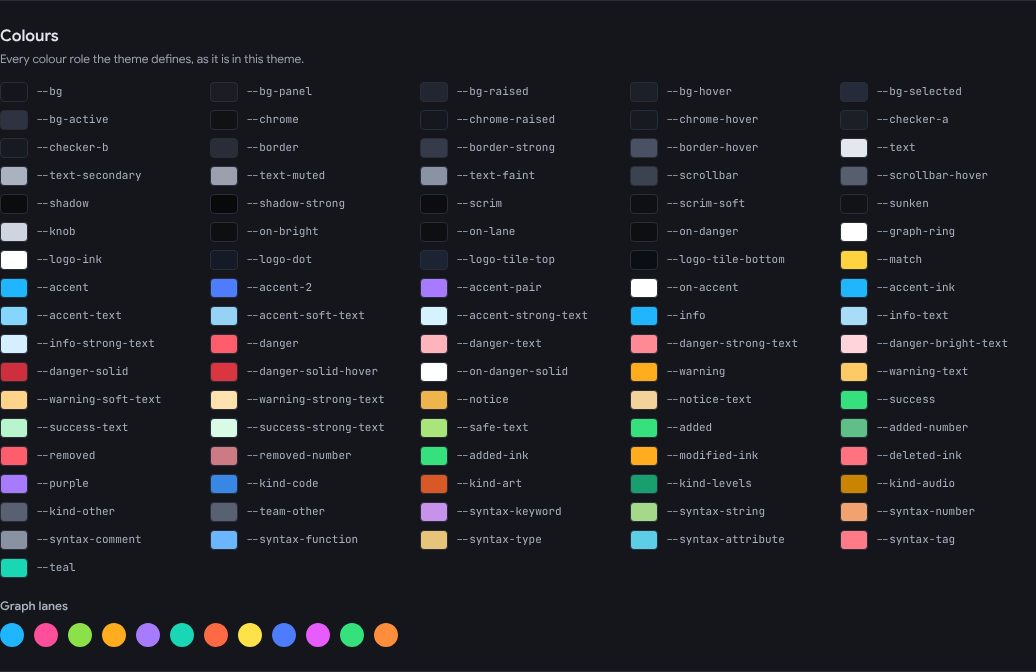
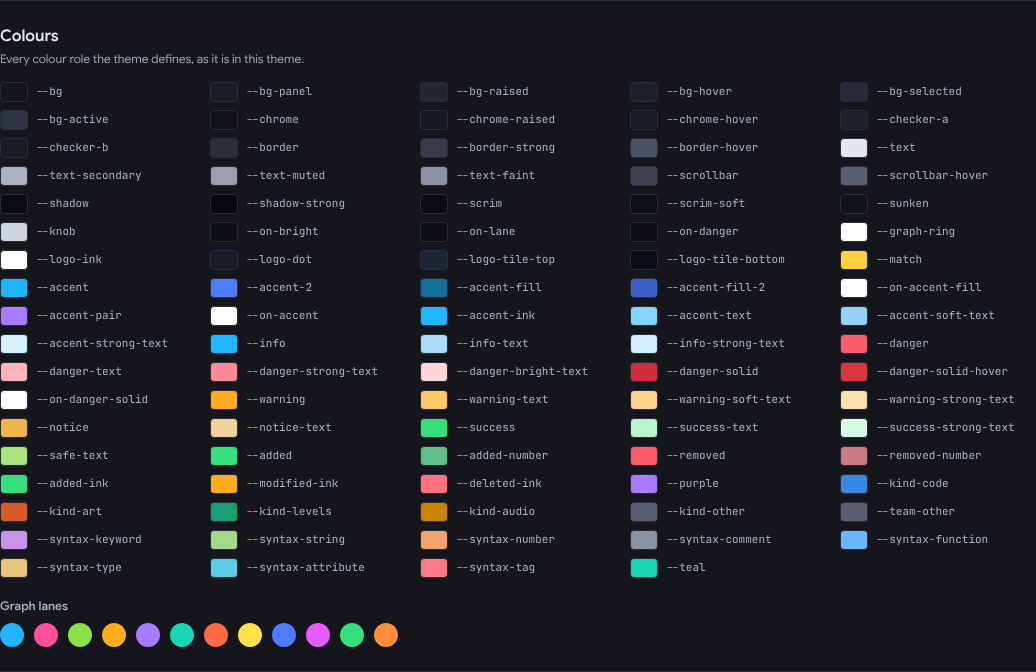
Fill blue buttons with a deeper accent, so their white text reads
White on the bright accent gradient of a primary button read at 2.3
to 1 at its light end and 3.7 at the other, under the 4.5 WCAG asks
of text this size. The toolbar's count badges had the same white on
the accent.

They're now filled with --accent-fill and --accent-fill-2: the accent
and its gradient's end, deepened until white reads at 5.2 to 1, which
leaves 4.5 when a button brightens by 8% under the pointer. The app
works them out from whichever accent is picked, a built-in one or
your own; theme.css has the default's. The accent itself is unchanged
everywhere else.

Tests check white on the fills for every built-in accent and a few of
one's own (yellow, green, white, dark blue, grey), in both themes,
pointed at or not, and on theme.css's defaults.

diff --git a/src/lib/appearance.test.ts b/src/lib/appearance.test.ts
@@ -1,5 +1,5 @@
 import { describe, expect, it } from "vitest";
-import { accentRoles, ACCENTS, contrast, DEFAULT_APPEARANCE, effectiveTheme, LANE_PALETTES, lanePalette, normalizeAppearance, parseHex, textOn } from "./appearance";
+import { accentRoles, ACCENTS, contrast, DEFAULT_APPEARANCE, FILL_CONTRAST, effectiveTheme, LANE_PALETTES, lanePalette, normalizeAppearance, parseHex, textOn } from "./appearance";
 
 const rgb = (hex: string) => parseHex(hex)!;
 
@@ -31,6 +31,24 @@ describe("appearance", () => {
     expect(roles["--accent-pair"]).toBe("#a77bff");
     expect(roles["--accent-ink"]).toBe("#1fb5ff");
     expect(roles["--on-accent"]).toBe("#ffffff");
+  });
+
+  it("fills buttons with the accent, deepened until white reads on it, pointed at or not", () => {
+    // The built-in accents, and colours of one's own: light, dark and greyish.
+    for (const accent of [...ACCENTS.map((a) => a.color), "#ffe24a", "#00ff00", "#ffffff", "#123456", "#9aa1ad"]) {
+      for (const theme of ["dark", "light"] as const) {
+        const roles = accentRoles(accent, theme);
+        for (const fill of [roles["--accent-fill"], roles["--accent-fill-2"]]) {
+          expect(contrast(rgb(fill), [255, 255, 255]), `${accent} ${fill}`).toBeGreaterThanOrEqual(FILL_CONTRAST);
+          // Brightened by 8% (filter: brightness(1.08)) when the pointer is on it.
+          const brighter = rgb(fill).map((value) => Math.min(255, value * 1.08)) as [number, number, number];
+          expect(contrast(brighter, [255, 255, 255]), `${accent} ${fill} pointed at`).toBeGreaterThanOrEqual(4.5);
+        }
+      }
+    }
+    // The default's, which theme.css has before the accent is applied.
+    expect(accentRoles("#1fb5ff", "dark")["--accent-fill"]).toBe("#136e9b");
+    expect(accentRoles("#1fb5ff", "dark")["--accent-fill-2"]).toBe("#3c61c7");
   });
 
   it("pairs every accent with a different colour", () => {

diff --git a/src/lib/appearance.ts b/src/lib/appearance.ts
@@ -159,6 +159,8 @@ function readable(color: Rgb, background: Rgb, toward: Rgb, min = 4.5): Rgb {
 }
 
 const WHITE: Rgb = [255, 255, 255];
+/** White on a button's fill, at least: 4.5 to 1 once it brightens by 8% when pointed at. */
+export const FILL_CONTRAST = 5.2;
 const BLACK: Rgb = [0, 0, 0];
 const DARK_TEXT: Rgb = [228, 231, 238];
 const LIGHT_TEXT: Rgb = [27, 31, 38];
@@ -194,6 +196,10 @@ export function accentRoles(accent: string, theme: Theme): Record<string, string
     "--on-accent": onAccent,
     "--accent-ink": legible(color),
     "--accent-text": legible(text.text),
+    // A button filled with the accent: its colours deepened until white reads on them, with
+    // room to spare for the button brightening when it's pointed at.
+    "--accent-fill": toHex(readable(color, WHITE, BLACK, FILL_CONTRAST)),
+    "--accent-fill-2": toHex(readable(end, WHITE, BLACK, FILL_CONTRAST)),
     "--accent-soft-text": legible(text.soft),
     "--accent-strong-text": legible(text.strong),
   };

diff --git a/src/styles/buttons.css b/src/styles/buttons.css
@@ -49,8 +49,8 @@
   padding: 0 var(--space-20);
   border: none;
   border-radius: var(--radius-lg);
-  background: linear-gradient(135deg, var(--accent), var(--accent-2));
-  color: var(--on-accent);
+  background: linear-gradient(135deg, var(--accent-fill), var(--accent-fill-2));
+  color: var(--on-accent-fill);
   font-size: var(--type-md);
   font-weight: 600;
   box-shadow: 0 6px 20px rgb(var(--accent-rgb) / 0.25);
@@ -68,7 +68,7 @@
   margin-left: var(--space-6);
   padding: 1px var(--space-6);
   border-radius: var(--radius-sm);
-  background: color-mix(in srgb, var(--on-accent) 18%, transparent);
+  background: color-mix(in srgb, var(--on-accent-fill) 18%, transparent);
   font-family: var(--mono);
   font-size: var(--type-xs);
   font-weight: 500;

diff --git a/src/lib/contrast.test.ts b/src/lib/contrast.test.ts
@@ -35,7 +35,10 @@ const COUNTS = [
 ];
 
 // Text on a solid colour, and the colour (and its hover) it's on.
-const ON_SOLID = [["--on-danger-solid", "--danger-solid", "--danger-solid-hover"]];
+const ON_SOLID = [
+  ["--on-danger-solid", "--danger-solid", "--danger-solid-hover"],
+  ["--on-accent-fill", "--accent-fill", "--accent-fill-2"],
+];
 
 /** `text`'s lowest contrast on the surfaces, in `theme`. */
 function lowest(theme: Record<string, string>, text: string): number {

diff --git a/src/styles/theme.css b/src/styles/theme.css
@@ -57,6 +57,11 @@
   --accent-rgb: 31 181 255;
   /* Where buttons' gradients end. */
   --accent-2: #4d7cff;
+  /* A button filled with the accent: deep enough for white text, which the bright accent
+     isn't (set from the accent you pick, in useAppearance; these are the default's). */
+  --accent-fill: #136e9b;
+  --accent-fill-2: #3c61c7;
+  --on-accent-fill: #ffffff;
   --accent-pair: #a77bff;
   --accent-pair-rgb: 167 123 255;
   --on-accent: #ffffff;

diff --git a/src/styles/dialogs.css b/src/styles/dialogs.css
@@ -297,8 +297,8 @@
   padding: 0 var(--space-14);
   border: none;
   border-radius: var(--radius-md);
-  background: linear-gradient(135deg, var(--accent), var(--accent-2));
-  color: var(--on-accent);
+  background: linear-gradient(135deg, var(--accent-fill), var(--accent-fill-2));
+  color: var(--on-accent-fill);
   font-weight: 600;
 }
 

diff --git a/src/styles/repository.css b/src/styles/repository.css
@@ -384,8 +384,8 @@
   height: 18px;
   padding: 0 var(--space-6);
   border-radius: var(--radius-xl);
-  background: var(--accent);
-  color: var(--on-accent);
+  background: var(--accent-fill);
+  color: var(--on-accent-fill);
   font-size: var(--type-xs);
   font-weight: 700;
   font-variant-numeric: tabular-nums;
